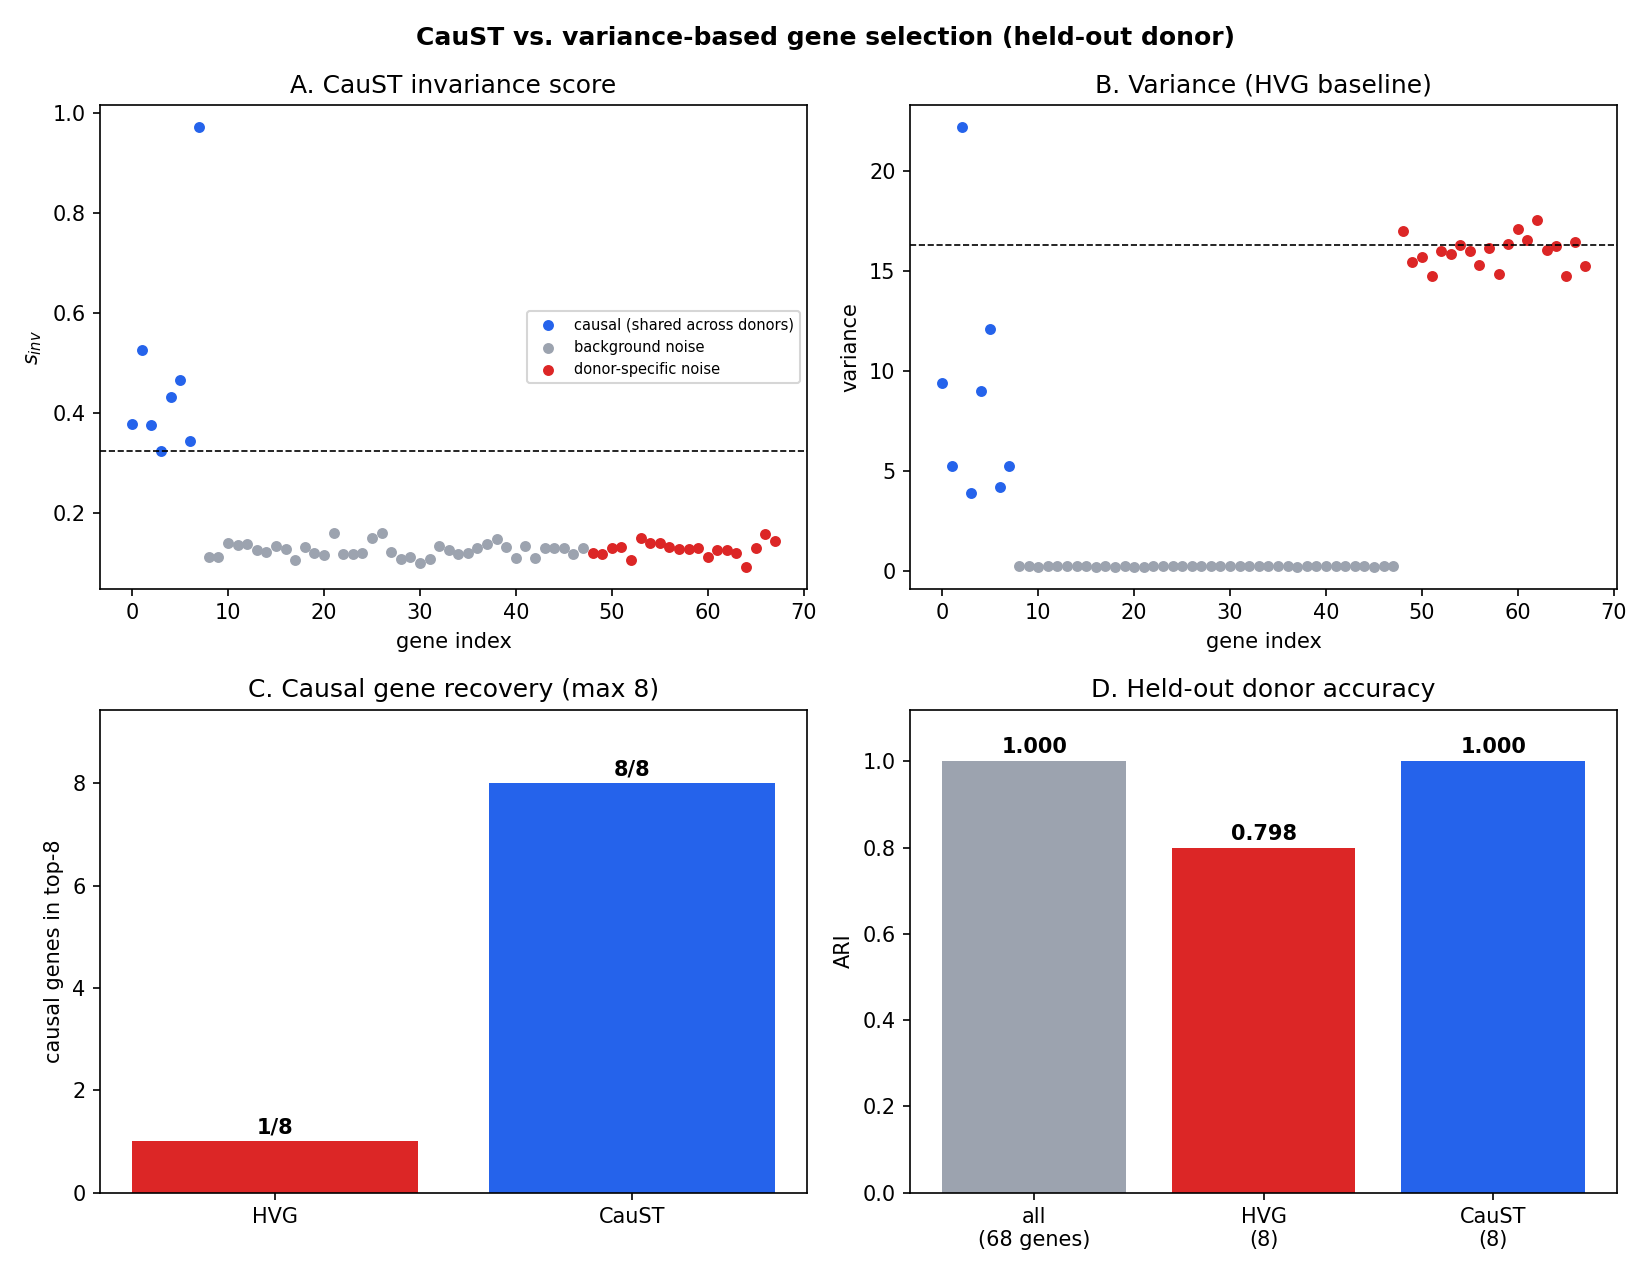
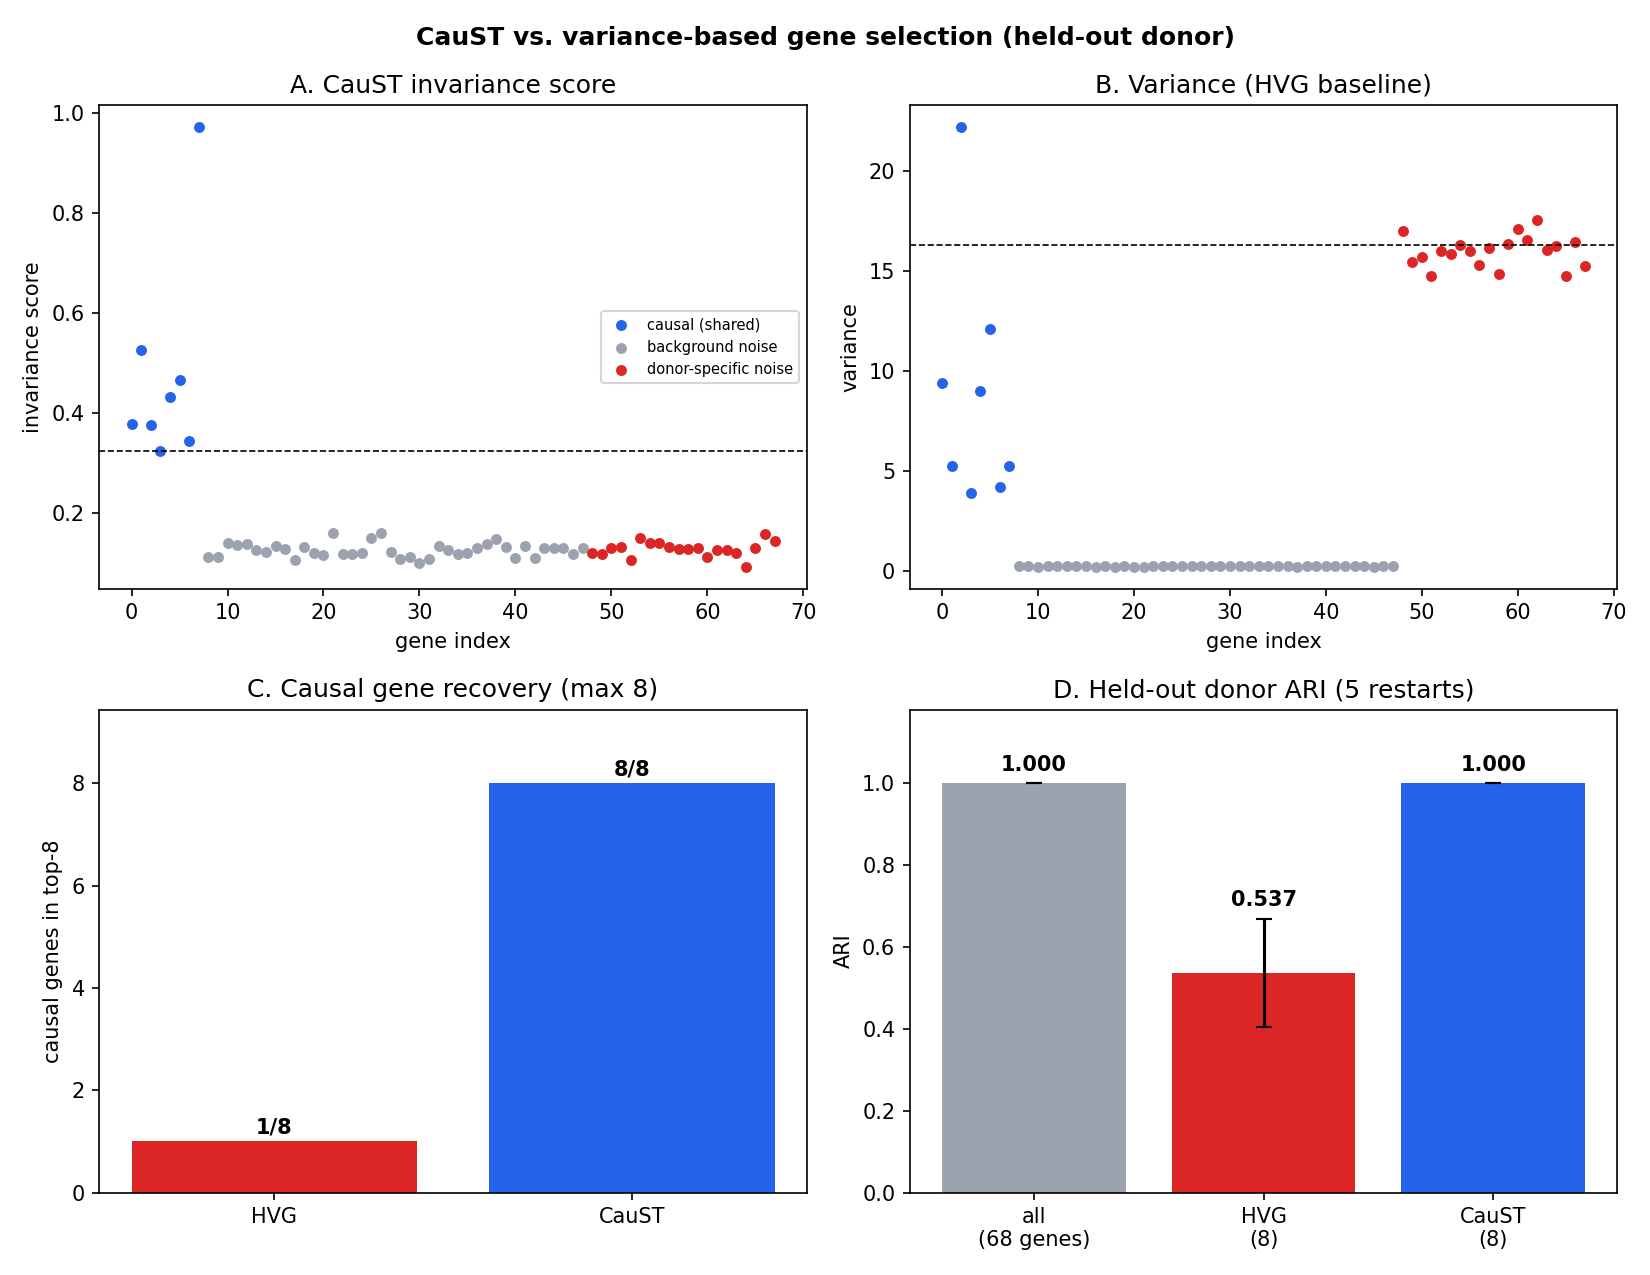
fix: report held-out ARI over five clustering restarts
The Gaussian mixture converges to a seed-dependent local optimum, and the
HVG gene set turns out to be far more sensitive to that than the CauST
set. The previously reported HVG ARI of 0.798 was the best of five
restarts; averaged, it is 0.537 +/- 0.133 against CauST's 1.000 +/- 0.000.

The spread is itself a result worth reporting: clustering on the CauST
gene set is identical across seeds, while the HVG set swings between 0.44
and 0.80. Figures now carry error bars.

scripts/benchmark.py becomes a thin wrapper over the config-driven runner
so the script and the CLI cannot report different numbers for the same
experiment -- which is exactly how the two had already drifted apart.

diff --git a/scripts/benchmark.py b/scripts/benchmark.py
@@ -1,221 +1,86 @@
 """CauST vs. the variance (HVG) baseline -- the project's central claim.
 
-Run::
+This is a thin wrapper around the config-driven runner so there is exactly one
+implementation of the experiment. Prefer the CLI directly:
 
-    python scripts/benchmark.py                 # numbers only
-    python scripts/benchmark.py --figures docs/figures   # + publication figures
+    caust run -c configs/experiment/synthetic_holdout.yaml --figures
 
-Experiment
-----------
-Three synthetic donors share a set of ``CAUSAL_*`` genes that define the spatial
-domains identically in every donor. Each donor additionally carries its own
-``DONORNOISE_*`` genes which have *higher variance* than the causal genes but
-carry no cross-donor domain signal -- precisely the trap that variance-based
-highly-variable-gene (HVG) selection falls into.
-
-Genes are selected on the training donors only, then evaluated on a **held-out
-donor** never seen during selection. That held-out evaluation is the actual
-robustness claim CauST makes.
+Anything you can pass here can also be expressed in the config, which is what
+gets recorded alongside the results.
 """
 
 from __future__ import annotations
 
 import argparse
-import warnings
 from pathlib import Path
 
-import numpy as np
+from caust.config import load_config
+from caust.experiment import run_experiment
 
-from caust import CauST, SimpleSpatialModel, ari, cluster_embedding
-from caust.data import make_synthetic_cohort
-
-GENE_CLASSES = (
-    ("CAUSAL", "#2563eb", "causal (shared across donors)"),
-    ("NOISE_", "#9ca3af", "background noise"),
-    ("DONORNOISE", "#dc2626", "donor-specific noise"),
-)
-
-
-def gene_class(name: str) -> str:
-    for prefix, _, _ in GENE_CLASSES:
-        if str(name).startswith(prefix):
-            return prefix
-    return "NOISE_"
-
-
-def hvg_scores(adatas) -> np.ndarray:
-    """Baseline gene score: mean expression variance across selection slices."""
-    return np.mean([np.asarray(a.X, dtype=float).var(axis=0) for a in adatas], axis=0)
-
-
-def match_labels(true: np.ndarray, pred: np.ndarray) -> np.ndarray:
-    """Relabel ``pred`` to best match ``true`` (Hungarian) for readable plots.
-
-    Cluster IDs are arbitrary, so this only changes colors, never the ARI.
-    """
-    from scipy.optimize import linear_sum_assignment
-
-    true_u, true_i = np.unique(true, return_inverse=True)
-    pred_u, pred_i = np.unique(pred, return_inverse=True)
-    counts = np.zeros((len(pred_u), len(true_u)), dtype=int)
-    for p, t in zip(pred_i, true_i):
-        counts[p, t] += 1
-    rows, cols = linear_sum_assignment(-counts)
-    mapping = dict(zip(rows.tolist(), cols.tolist()))
-    return np.array([mapping.get(int(p), int(p)) for p in pred_i])
-
-
-def evaluate(adata, genes, n_domains: int) -> tuple[float, np.ndarray]:
-    """Cluster ``adata`` restricted to ``genes``; return (ARI, predicted labels)."""
-    keep = [g for g in genes if g in set(adata.var_names)]
-    sub = adata[:, keep].copy()
-    model = SimpleSpatialModel().fit(sub)
-    pred = cluster_embedding(model.get_embedding(), n_clusters=n_domains)
-    return ari(adata.obs["domain"], pred), pred
-
-
-def make_figures(
-    outdir: Path, names, caust_score, var, caust_sel, hvg_sel, held, results, n_top
-) -> None:
-    try:
-        import matplotlib
-    except ImportError:  # pragma: no cover - depends on the optional extra
-        raise SystemExit(
-            '--figures needs matplotlib; install it with: pip install ".[viz]"'
-        ) from None
-
-    matplotlib.use("Agg")
-    import matplotlib.pyplot as plt
-
-    outdir.mkdir(parents=True, exist_ok=True)
-    klass = np.array([gene_class(n) for n in names])
-    idx = np.arange(len(names))
-
-    fig, axes = plt.subplots(2, 2, figsize=(11, 8.5))
-
-    ax = axes[0, 0]
-    for prefix, color, label in GENE_CLASSES:
-        m = klass == prefix
-        ax.scatter(idx[m], caust_score[m], s=18, c=color, label=label)
-    ax.axhline(np.sort(caust_score)[-n_top], ls="--", c="k", lw=0.8)
-    ax.set(title="A. CauST invariance score", xlabel="gene index", ylabel="$s_{inv}$")
-    ax.legend(fontsize=7, loc="center right")
-
-    ax = axes[0, 1]
-    for prefix, color, _ in GENE_CLASSES:
-        m = klass == prefix
-        ax.scatter(idx[m], var[m], s=18, c=color)
-    ax.axhline(np.sort(var)[-n_top], ls="--", c="k", lw=0.8)
-    ax.set(title="B. Variance (HVG baseline)", xlabel="gene index", ylabel="variance")
-
-    ax = axes[1, 0]
-    rec = [
-        int(sum(str(g).startswith("CAUSAL") for g in hvg_sel)),
-        int(sum(str(g).startswith("CAUSAL") for g in caust_sel)),
-    ]
-    ax.bar(["HVG", "CauST"], rec, color=["#dc2626", "#2563eb"])
-    ax.set(
-        ylim=(0, n_top * 1.18),
-        ylabel=f"causal genes in top-{n_top}",
-        title=f"C. Causal gene recovery (max {n_top})",
-    )
-    for i, v in enumerate(rec):
-        ax.text(i, v + n_top * 0.02, f"{v}/{n_top}", ha="center", fontweight="bold")
-
-    ax = axes[1, 1]
-    labels = [f"all\n({len(names)} genes)", f"HVG\n({n_top})", f"CauST\n({n_top})"]
-    vals = [results["all genes"][0], results["HVG"][0], results["CauST"][0]]
-    ax.bar(labels, vals, color=["#9ca3af", "#dc2626", "#2563eb"])
-    ax.set(ylim=(0, 1.12), ylabel="ARI", title="D. Held-out donor accuracy")
-    for i, v in enumerate(vals):
-        ax.text(i, v + 0.02, f"{v:.3f}", ha="center", fontweight="bold")
-
-    fig.suptitle(
-        "CauST vs. variance-based gene selection (held-out donor)", fontweight="bold"
-    )
-    fig.tight_layout()
-    fig.savefig(outdir / "benchmark.png", dpi=150)
-    plt.close(fig)
-
-    coords = np.asarray(held.obsm["spatial"])
-    true = np.asarray(held.obs["domain"]).astype(int)
-    panels = [
-        ("ground truth", true),
-        (f"HVG (ARI {results['HVG'][0]:.3f})", match_labels(true, results["HVG"][1])),
-        (
-            f"CauST (ARI {results['CauST'][0]:.3f})",
-            match_labels(true, results["CauST"][1]),
-        ),
-    ]
-    fig2, axes2 = plt.subplots(1, 3, figsize=(12, 4))
-    for ax, (title, lab) in zip(axes2, panels):
-        ax.scatter(coords[:, 0], coords[:, 1], c=lab, cmap="tab10", s=14)
-        ax.set_title(title)
-        ax.set_aspect("equal")
-        ax.axis("off")
-    fig2.suptitle("Spatial domains on the held-out donor", fontweight="bold")
-    fig2.tight_layout()
-    fig2.savefig(outdir / "domains.png", dpi=150)
-    plt.close(fig2)
-    print(f"\nFigures written to {outdir}/benchmark.png and {outdir}/domains.png")
+REPO_ROOT = Path(__file__).resolve().parents[1]
+DEFAULT_CONFIG = REPO_ROOT / "configs" / "experiment" / "synthetic_holdout.yaml"
 
 
 def main(argv: list[str] | None = None) -> int:
     p = argparse.ArgumentParser(description=__doc__.splitlines()[0])
-    p.add_argument("--slices", type=int, default=3, help="donors (last is held out)")
-    p.add_argument("--n-causal", type=int, default=8)
-    p.add_argument("--lam", type=float, default=2.0)
+    p.add_argument("-c", "--config", type=Path, default=DEFAULT_CONFIG)
+    p.add_argument("--slices", type=int, default=None, help="override data.n_slices")
+    p.add_argument("--n-causal", type=int, default=None, help="override data.n_causal")
+    p.add_argument("--lam", type=float, default=None, help="override selection.lam")
     p.add_argument("--figures", type=Path, default=None, metavar="DIR")
+    p.add_argument("-o", "--outdir", type=Path, default=REPO_ROOT / "results")
     args = p.parse_args(argv)
 
-    if args.slices < 2:
-        p.error("--slices must be >= 2 (at least one training and one held-out donor)")
+    overrides = []
+    if args.slices is not None:
+        overrides.append(f"data.n_slices={args.slices}")
+    if args.n_causal is not None:
+        overrides += [
+            f"data.n_causal={args.n_causal}",
+            f"selection.n_top_genes={args.n_causal}",
+        ]
+    if args.lam is not None:
+        overrides.append(f"selection.lam={args.lam}")
 
-    k = args.n_causal
-    cohort = make_synthetic_cohort(n_slices=args.slices, grid=20, n_causal=k, seed=0)
-    n_domains = int(cohort[0].obs["domain"].nunique())
-    train, held = cohort[:-1], cohort[-1]
+    cfg = load_config(args.config, overrides)
+    rundir = Path(args.outdir) / cfg.run_id
+    metrics = run_experiment(cfg, rundir, figures=args.figures is not None)
 
+    ev = metrics["held_out"]
+    rec = metrics["causal_recovery"]
     print(
-        f"Cohort: {args.slices} donors x {cohort[0].n_obs} spots x "
-        f"{cohort[0].n_vars} genes ({n_domains} domains)"
+        f"Cohort: {metrics['n_slices']} donors x {metrics['n_spots']} spots x "
+        f"{metrics['n_genes']} genes ({metrics['n_domains']} domains)"
     )
-    print(f"Selecting genes on donors 1-{len(train)}; donor {args.slices} held out.\n")
-
-    cs = CauST(lam=args.lam).fit(train)
-    names = np.asarray(cs.common_genes_)
-    caust_score = np.asarray(cs.scores_)
-    var = hvg_scores(train)
-
-    caust_sel = cs.select_genes(k)
-    hvg_sel = names[np.argsort(-var)[:k]]
-
-    n_caust = int(sum(str(g).startswith("CAUSAL") for g in caust_sel))
-    n_hvg = int(sum(str(g).startswith("CAUSAL") for g in hvg_sel))
-    print(f"Causal genes recovered in the top-{k}:")
-    print(f"  HVG    {n_hvg}/{k}")
-    print(f"  CauST  {n_caust}/{k}")
-
-    results = {}
-    print(f"\nHeld-out donor {args.slices} (never used for gene selection):")
-    for label, genes in (("all genes", names), ("HVG", hvg_sel), ("CauST", caust_sel)):
-        score, pred = evaluate(held, genes, n_domains)
-        results[label] = (score, pred)
-        print(f"  ARI  {label:<10s} ({len(genes):>2d} genes)  {score:.3f}")
-
     print(
-        f"\nCauST matches the all-genes ARI using {len(names) // k}x fewer genes, "
-        f"while HVG at the same budget loses "
-        f"{results['all genes'][0] - results['HVG'][0]:.3f} ARI."
+        f"Selecting genes on donors 1-{metrics['n_train_slices']}; "
+        f"donor {metrics['n_slices']} held out.\n"
     )
+    print(f"Causal genes recovered in the top-{rec['max']}:")
+    print(f"  HVG    {rec['hvg']}/{rec['max']}")
+    print(f"  CauST  {rec['caust']}/{rec['max']}")
+    print(
+        f"\nHeld-out donor {metrics['n_slices']} "
+        f"(never used for gene selection, {ev['caust']['n_restarts']} restarts):"
+    )
+    for arm, label in (("all_genes", "all genes"), ("hvg", "HVG"), ("caust", "CauST")):
+        r = ev[arm]
+        print(
+            f"  ARI  {label:<10s} ({r['n_genes']:>2d} genes)  "
+            f"{r['ari']:.3f} +/- {r['ari_std']:.3f}"
+        )
 
     if args.figures is not None:
-        make_figures(
-            args.figures, names, caust_score, var, caust_sel, hvg_sel, held, results, k
-        )
+        src = rundir / "figures"
+        dest = Path(args.figures)
+        dest.mkdir(parents=True, exist_ok=True)
+        for name in ("benchmark.png", "domains.png"):
+            if (src / name).is_file():
+                dest.joinpath(name).write_bytes((src / name).read_bytes())
+        print(f"\nFigures written to {dest}/benchmark.png and {dest}/domains.png")
+    print(f"Artifacts written to {rundir}")
     return 0
 
 
 if __name__ == "__main__":
-    warnings.filterwarnings("ignore", category=RuntimeWarning)
     raise SystemExit(main())

diff --git a/README.md b/README.md
@@ -45,20 +45,24 @@ falls into. Genes are selected on the training donors only and evaluated on a
 **held-out donor**, which is the actual robustness claim.
 
 ```
-$ python scripts/benchmark.py
+$ caust run -c configs/experiment/synthetic_holdout.yaml
 
 Causal genes recovered in the top-8:
   HVG    1/8
   CauST  8/8
 
-Held-out donor 3 (never used for gene selection):
-  ARI  all genes  (68 genes)  1.000
-  ARI  HVG        ( 8 genes)  0.798
-  ARI  CauST      ( 8 genes)  1.000
+Held-out donor 3 (never used for gene selection, 5 restarts):
+  ARI  all genes  (68 genes)  1.000 +/- 0.000
+  ARI  HVG        ( 8 genes)  0.537 +/- 0.133
+  ARI  CauST      ( 8 genes)  1.000 +/- 0.000
 ```
 
-CauST matches the all-genes accuracy using **8× fewer genes**, while the
-variance baseline at the same budget loses 0.20 ARI.
+CauST matches the all-genes accuracy using **8× fewer genes**, while the variance
+baseline at the same budget loses roughly 0.46 ARI. ARI is averaged over five
+clustering restarts because the Gaussian mixture lands in a seed-dependent local
+optimum — and the spread is itself informative: the CauST gene set clusters
+identically every time (±0.000), while the HVG set swings between 0.44 and 0.80
+(±0.133) depending on the seed.
 
 ![CauST vs HVG benchmark](https://raw.githubusercontent.com/land-saas/CauSt/main/docs/figures/benchmark.png)
 
@@ -67,8 +71,18 @@ while variance ranks the donor-specific noise genes highest.
 
 ![Spatial domains on the held-out donor](https://raw.githubusercontent.com/land-saas/CauSt/main/docs/figures/domains.png)
 
-Reproduce the numbers with `python scripts/benchmark.py`, or `make benchmark` to
-also regenerate the figures (plotting needs `pip install ".[viz]"`).
+Every run is config-driven and writes a content-addressed directory under
+`results/` with the resolved config, the metrics, and a provenance manifest
+(git commit, package versions, platform, seed, BLAS thread counts, artifact
+checksums). `caust verify <rundir>` re-runs the recorded config and fails if the
+numbers have moved. See [REPRODUCIBILITY.md](https://github.com/land-saas/CauSt/blob/main/REPRODUCIBILITY.md)
+for the full workflow.
+
+```bash
+make repro          # run the headline experiment
+make verify         # re-run every recorded result and confirm it still matches
+make determinism    # prove two separate processes produce byte-identical output
+```
 
 ## Install
 
